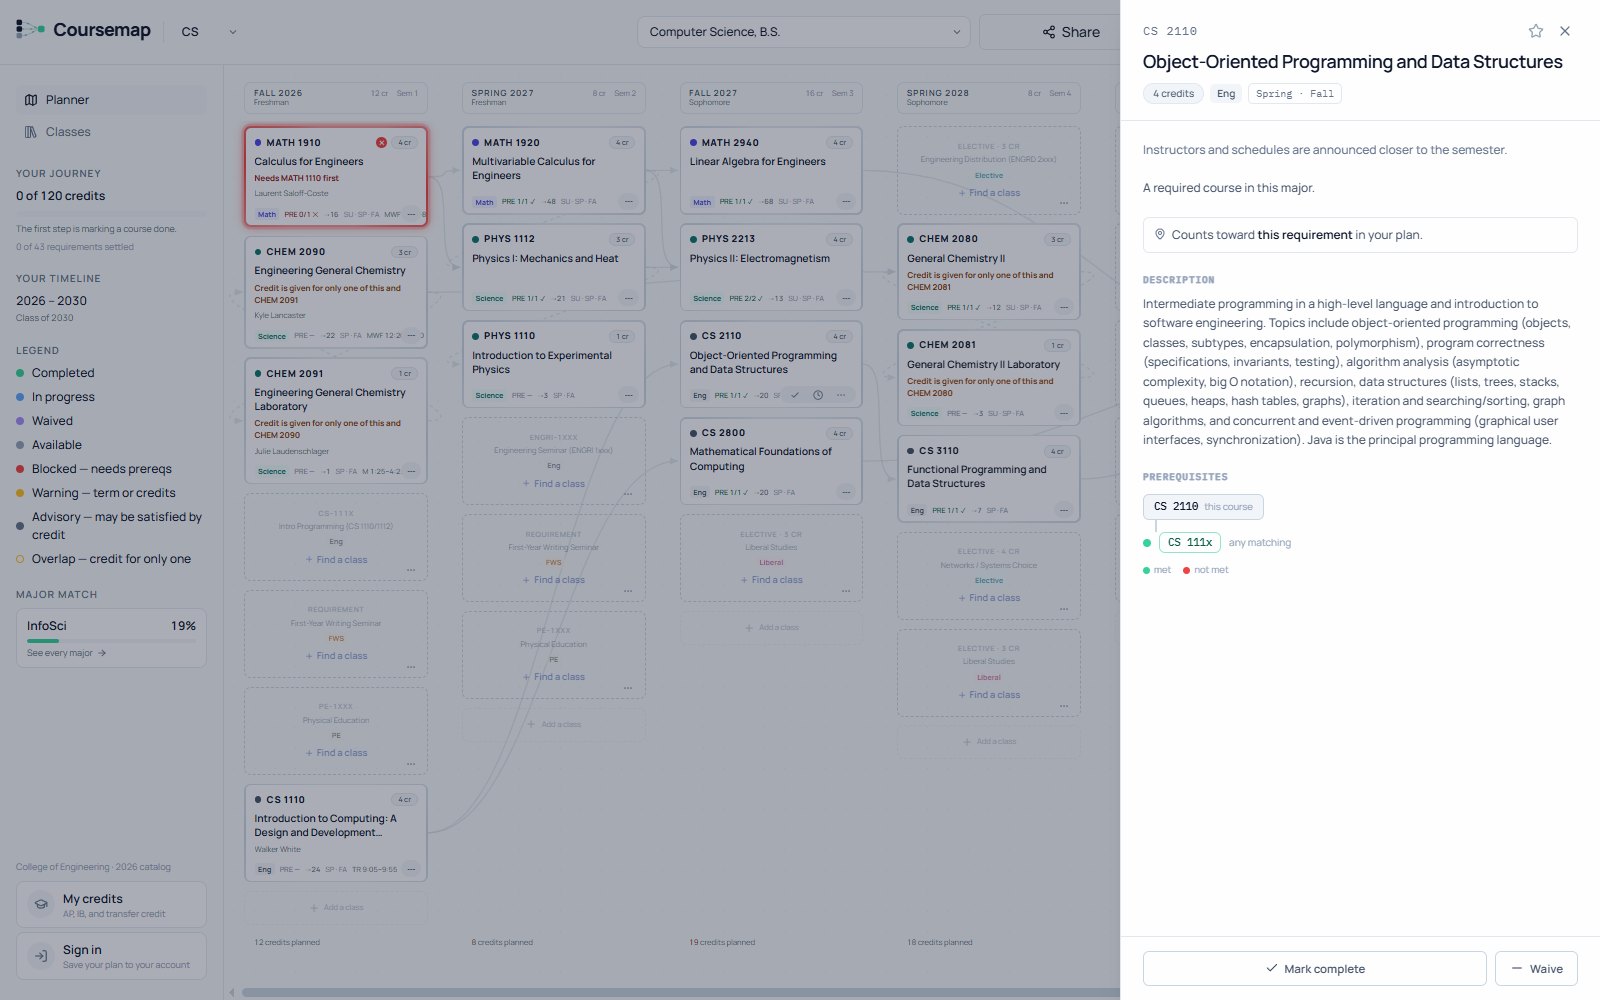
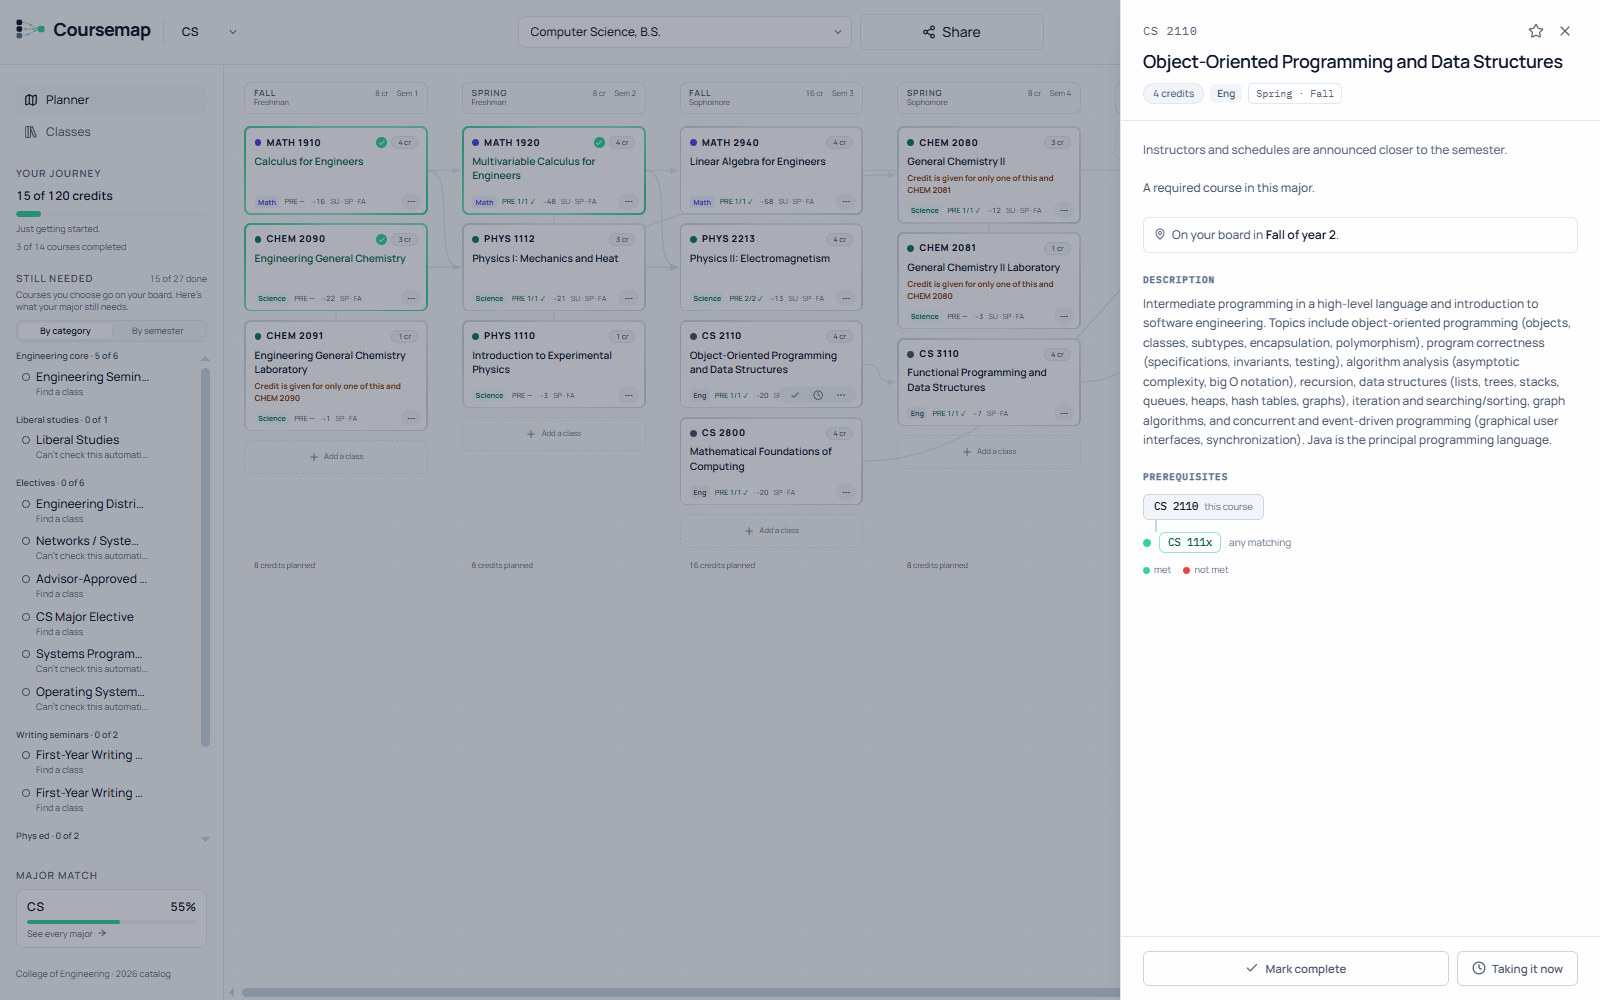
fix(ui): replace opacity-modified line tokens that fell back to a bright default border
border-line/80, border-line/60, border-line/70 and divide-line/70 can't be
generated against a var() color token, so the browser used its default
border color: bright white dashes on the dark-mode "Add a class" button
(exposed once its 60% dimming was removed for contrast) and bright dividers
in the account menu, top bar, Major Match panel, Classes page and compare
modal. Now border-line / border-line-strong / divide-line.

Public README: refreshed for the course-only board (Still needed checklist,
drag outline, Move to…, drag engine highlight, test counts) with new
screenshots from the live site.

diff --git a/cornell-degree-planner/src/components/layout/TopBar.tsx b/cornell-degree-planner/src/components/layout/TopBar.tsx
@@ -164,7 +164,7 @@ function PlanMenu() {
             <button
               onClick={handleNewPlan}
               disabled={busy || !selectedProgramId}
-              className="mt-1 flex w-full items-center gap-1.5 rounded-md border-t border-line/60 px-1.5 pb-0.5 pt-1.5 t-meta text-ink-3 transition-colors hover:text-ink disabled:opacity-50"
+              className="mt-1 flex w-full items-center gap-1.5 rounded-md border-t border-line px-1.5 pb-0.5 pt-1.5 t-meta text-ink-3 transition-colors hover:text-ink disabled:opacity-50"
             >
               <Plus className="h-3 w-3" />
               {busy ? "Creating…" : "New plan for this program (what-if)"}

diff --git a/cornell-degree-planner/src/components/roadmap/SemesterColumn.tsx b/cornell-degree-planner/src/components/roadmap/SemesterColumn.tsx
@@ -241,7 +241,7 @@ export function SemesterColumn({
         <button
           onClick={handleAdd}
           className={cn(
-            "flex min-h-[40px] items-center justify-center gap-1.5 rounded-lg border border-dashed border-line/80 t-meta text-ink-4",
+            "flex min-h-[40px] items-center justify-center gap-1.5 rounded-lg border border-dashed border-line-strong t-meta text-ink-4",
             // No opacity dimming (B4): at 60% no ink token passes WCAG AA; the
             // quiet look comes from text-ink-4 (AA-raised) + the dashed border.
             "transition-colors hover:border-ink-3 hover:text-ink-2",

diff --git a/cornell-degree-planner/src/components/classes/ClassesPage.tsx b/cornell-degree-planner/src/components/classes/ClassesPage.tsx
@@ -129,7 +129,7 @@ export function ClassesPage() {
                     Nothing matches — try a broader search or clear a filter.
                   </p>
                 ) : (
-                  <ul className="flex flex-col divide-y divide-line/70">
+                  <ul className="flex flex-col divide-y divide-line">
                     {shown.map((r) => (
                       <DirectoryRow
                         key={r.id}

diff --git a/cornell-degree-planner/src/components/majors/MajorMatchPanel.tsx b/cornell-degree-planner/src/components/majors/MajorMatchPanel.tsx
@@ -71,7 +71,7 @@ function MatchRow({
       </button>
 
       {open && (
-        <div className="flex flex-col gap-2.5 border-t border-line/70 px-3 py-2.5">
+        <div className="flex flex-col gap-2.5 border-t border-line px-3 py-2.5">
           <p className="t-meta">
             <span className="num">{creditsSatisfied}</span> of{" "}
             <span className="num">{creditsRequired}</span> credits count toward {name}.

diff --git a/cornell-degree-planner/src/components/layout/AccountMenu.tsx b/cornell-degree-planner/src/components/layout/AccountMenu.tsx
@@ -93,7 +93,7 @@ export function AccountMenu() {
                 {email && <span className="truncate t-meta text-ink-4">{email}</span>}
               </div>
             </div>
-            <div className="my-1 border-t border-line/60" />
+            <div className="my-1 border-t border-line" />
             {confirmingSignOut ? (
               <div className="flex items-center gap-1.5 px-1 py-0.5">
                 <button

diff --git a/cornell-degree-planner/src/components/classes/CompareModal.tsx b/cornell-degree-planner/src/components/classes/CompareModal.tsx
@@ -271,7 +271,7 @@ export function CompareModal({
                 ))}
               </tr>
             </thead>
-            <tbody className="divide-y divide-line/70">
+            <tbody className="divide-y divide-line">
               <Row label="Credits">
                 {columns.map((c) => <Cell key={c.id}><span className="num">{c.credits ?? EM_DASH}</span></Cell>)}
               </Row>

diff --git a/README.md b/README.md
@@ -20,10 +20,7 @@
 > script, and environment config. Everything you see here (the app, the data pipeline, the tests, the specs and
 > audits) is the real code and the real record of how it was built.
 
-<picture>
-  <source media="(prefers-color-scheme: dark)" srcset="docs/media/hero-dark.png">
-  <img alt="Coursemap: a Computer Science plan laid out across eight semesters, with prerequisite edges drawn between course cards" src="docs/media/hero-light.png">
-</picture>
+<img alt="Coursemap: a Computer Science plan across semester columns, with prerequisite edges between course cards and the Still needed checklist in the sidebar" src="docs/media/hero-light.png">
 
 ## Why it exists
 
@@ -35,8 +32,13 @@ against what you've picked.
 
 ## What it does
 
-- **Plan on a semester canvas.** Drag or click courses into eight semesters. Requirement slots, credit totals and
-  term-offered warnings update as you go. Dropping onto a filled slot replaces it, with an undo.
+- **Plan on a semester canvas.** The board holds only *your courses*. Drag a card (or a catalog row) to any position
+  in any semester; a dashed outline shows exactly where it will land, and credit totals and term warnings update as
+  you go. Keyboard users get a **Move to…** menu, and touch screens drag with a press-and-hold.
+- **See what's still needed.** A requirement isn't a slot on the board; it's an *attribution*. Each card says what it
+  counts toward, and a **Still needed** checklist (grouped by category, or by semester) lists what your major still
+  requires. Clicking a met requirement highlights the cards covering it; clicking an unmet one opens the catalog
+  filtered to courses that would satisfy it.
 - **See the live prerequisite graph.** Edges are *derived* from each course's parsed prerequisites, not hand-drawn.
   Hover a course to light up the chain behind it and everything it unlocks.
 - **Get honest status on every card.** Completed, in progress, waived, available, blocked, wrong term, or
@@ -45,15 +47,16 @@ against what you've picked.
   with an explanation of which course counts toward what.
 - **Trust data by distance.** Next semester's cards show who's teaching, meeting times and schedule conflicts.
   Cards four years out show only data that will still be true then.
-- **Use AP, IB and transfer credit.** Synthetic credit courses flow through the same evaluator as real ones.
+- **Use AP, IB and transfer credit.** Synthetic credit courses flow through the same evaluator as real ones, and a
+  course your credit already covers says so on its card.
 - **Start without an account.** Plans work anonymously. Signing in with Google saves them, and read-only share links
   publish a snapshot.
 
-| Hover a course: its prerequisite chain and unlocks | Course detail with the prerequisite tree |
+| Drag: the card springs into the spot where it will land | Still needed: click a requirement to highlight what covers it |
 |---|---|
-| ![Hovering CS 2110 highlights the chain from CS 1110 through CS 3110 and CS 4820](docs/media/graph-hover.png) | ![The CS 2110 side panel: credits, terms offered, description and prerequisite tree](docs/media/course-detail.png) |
-| **Major Match: every major, ranked** | **Catalog search with prerequisite status** |
-| ![The Majors tab ranking 15 majors by requirement fit](docs/media/major-match.png) | ![Catalog search results showing prerequisite status and unlock counts](docs/media/catalog.png) |
+| ![Mid-drag: the dragged course snapped into its landing spot in a highlighted semester column](docs/media/drag-in-flight.png) | ![The Still needed checklist with a satisfied requirement highlighting its course on the board](docs/media/still-needed.png) |
+| **Hover a course: its prerequisite chain and unlocks** | **Course detail with the prerequisite tree** |
+| ![Hovering a course highlights the chain of prerequisites behind it and the courses it unlocks](docs/media/graph-hover.png) | ![A course's side panel: credits, terms offered, description and prerequisite tree](docs/media/course-detail.png) |
 
 ## Engineering highlights
 
@@ -77,6 +80,10 @@ against what you've picked.
 - **Security that fails closed.** [`firestore.rules`](firestore.rules) default-denies and allowlists exact document
   shapes, with self-escalation guards and write caps. A deny-matrix test suite runs against the Firestore emulator.
   A standalone [billing circuit breaker](billing-breaker/) detaches billing if spend ever passes a hard cap.
+- **A drag engine built for a zoomed canvas.** One shared drag source with document-level pointer tracking,
+  per-drag sessions, pointer identity (a second finger can't hijack a tablet drag), a viewport-space ghost scaled to
+  the canvas zoom, and `elementsFromPoint` hit-testing, all covered by a real-mouse Playwright suite
+  ([`e2e/`](cornell-degree-planner/e2e)).
 - **Pure core, thin shell.** All planning logic lives in framework-free, unit-tested modules under
   [`src/lib/planner/`](cornell-degree-planner/src/lib/planner). React components render the results, and a service
   layer is the only code that touches Firestore.
@@ -115,7 +122,7 @@ flowchart LR
 | State | Zustand (planner UI), React context providers (session data), Zod at every read boundary |
 | Backend | Firebase: Firestore, Auth (anonymous + Google), Hosting |
 | Data pipeline | Node + `tsx` scripts using the Firebase Admin SDK |
-| Testing | Vitest (400+ unit tests), corpus suites for the parser and validators, Firestore emulator rules tests, GitHub Actions CI |
+| Testing | Vitest (560+ unit tests), a real-mouse Playwright suite for drag, corpus suites for the parser and validators, Firestore emulator rules tests, GitHub Actions CI |
 
 ## Repository layout
 
@@ -126,7 +133,7 @@ flowchart LR
 | [`scripts/`](scripts) | Roster ingest, prerequisite parser, seeding, validation harnesses and their corpora |
 | [`firestore.rules`](firestore.rules) · [`rules-tests/`](rules-tests) | Security rules and their emulator test suite |
 | [`billing-breaker/`](billing-breaker) | Cloud Function that hard-caps spend |
-| [`docs/`](docs/README.md) | Product and design docs, 13 feature specs, engineering audits |
+| [`docs/`](docs/README.md) | Product and design docs, 14 feature specs, engineering audits |
 
 ## Running it locally
 
@@ -150,13 +157,14 @@ full runbook.
 (cd cornell-degree-planner && npm ci && npm run typecheck && npm test)   # app: types + unit tests
 (cd scripts && npm ci && npx tsx prereq-grammar.corpus.ts)               # one of the pipeline corpora
 (cd rules-tests && npm ci && npm run test:rules)                         # security rules (needs Java for the emulator)
+(cd cornell-degree-planner && npm run test:e2e)                          # real-mouse drag suite (needs `npm run dev` running)
 ```
 
 ## How it was built
 
 Coursemap is built spec-first. Each feature starts as a written spec with explicit decisions, open questions and a
 `STATUS:` banner. It's then built in small reviewed units against tests and verified in a real browser before it ships.
-The [`docs/`](docs/README.md) folder keeps that trail: 13 specs, the audits that motivated them, and the design
+The [`docs/`](docs/README.md) folder keeps that trail: 14 specs, the audits that motivated them, and the design
 explorations behind the UI.
 
 I built it with **Claude Code as my pair programmer**. I set the product direction and made the design and
